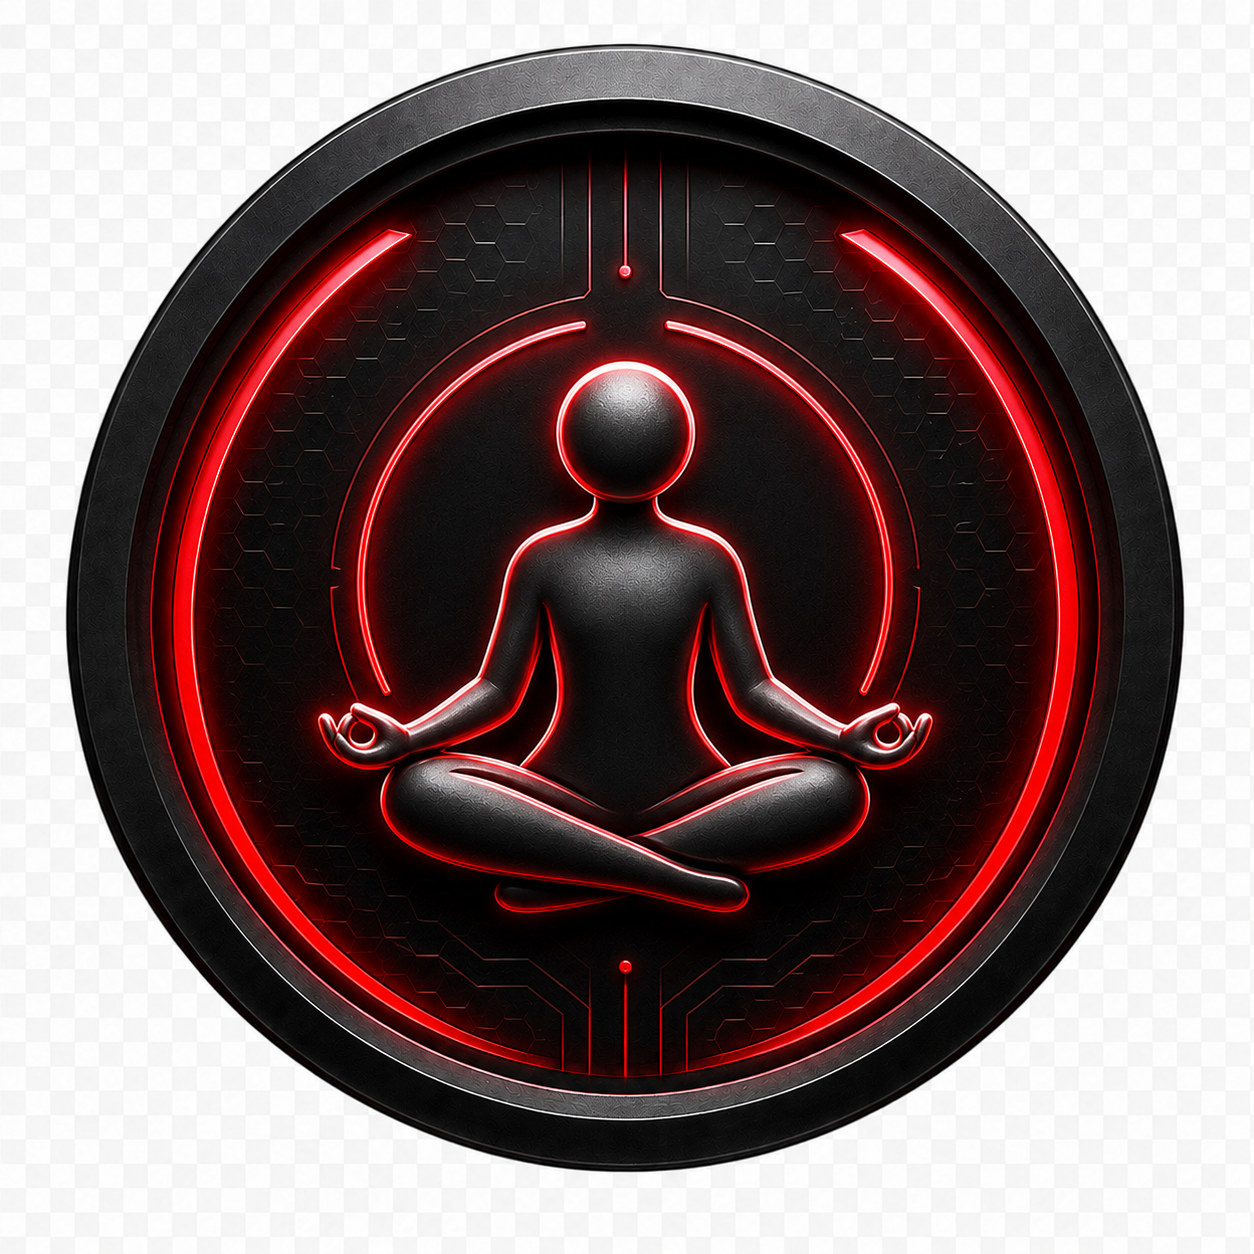
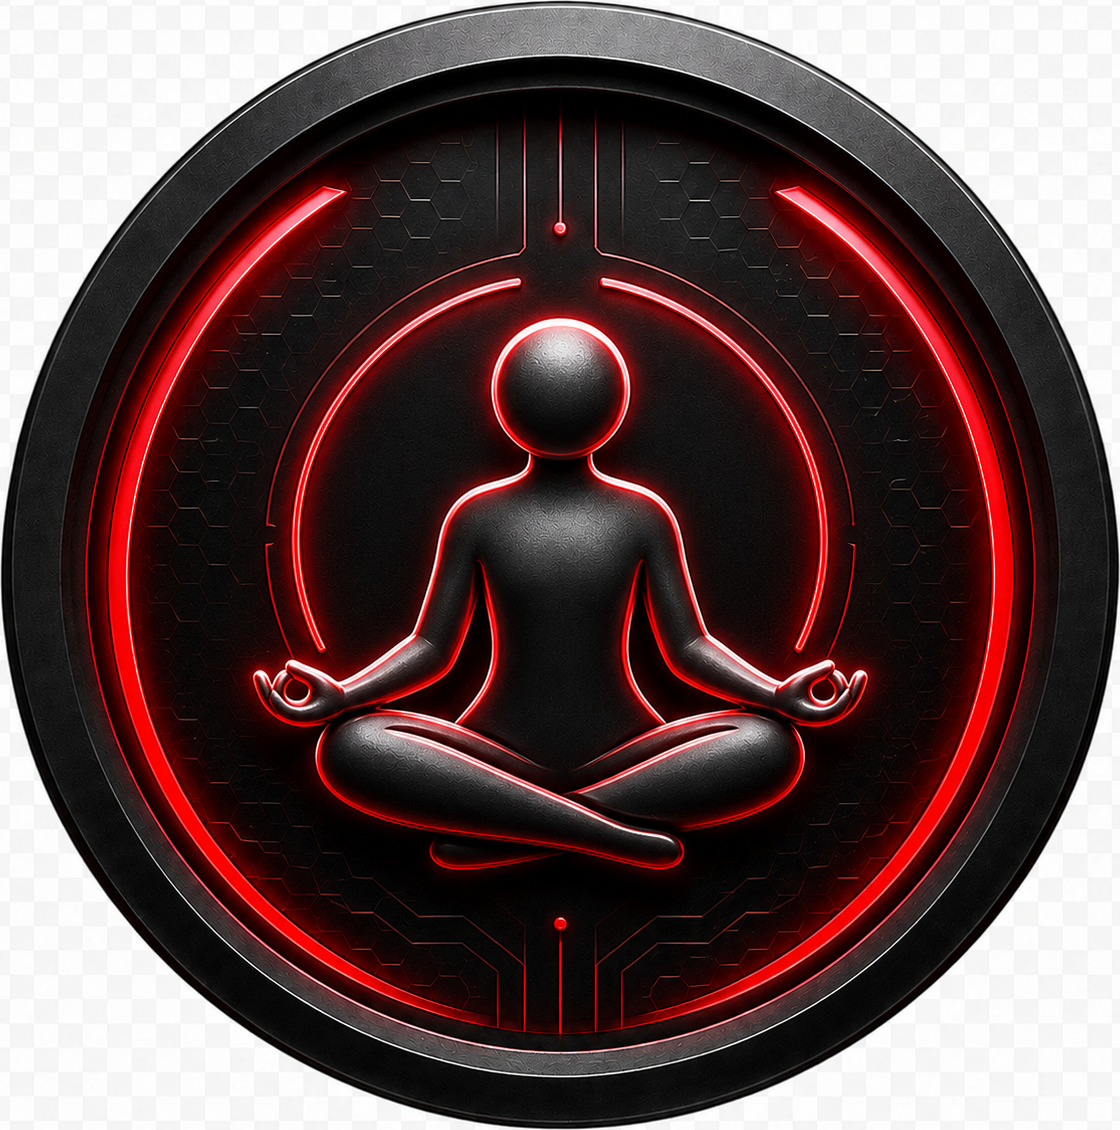
Add Badges To Chatbot Quick Help Cards

diff --git a/src/screens/member/chatbot/ChatbotScreen.js b/src/screens/member/chatbot/ChatbotScreen.js
@@ -164,7 +164,10 @@ export default function ChatbotScreen() {
                   handleSend("Can you help me with a workout plan?")
                 }
               >
-                <Text style={styles.promptEmoji}>💪</Text>
+                <Image
+                  source={require("../../../../assets/Chatbot_Images/chatbot_workout_card_image_1.png")}
+                  style={styles.promptIcon}
+                />
                 <Text style={styles.promptTitle}>Workout Help</Text>
                 <Text style={styles.promptSubtitle}>Training ideas</Text>
               </TouchableOpacity>
@@ -175,7 +178,10 @@ export default function ChatbotScreen() {
                   handleSend("Give me healthy meal ideas after a workout.")
                 }
               >
-                <Text style={styles.promptEmoji}>🥗</Text>
+                <Image
+                  source={require("../../../../assets/Chatbot_Images/chatbot_meal_card_image_1.png")}
+                  style={styles.promptIcon}
+                />
                 <Text style={styles.promptTitle}>Meal Ideas</Text>
                 <Text style={styles.promptSubtitle}>Healthy eating</Text>
               </TouchableOpacity>
@@ -186,7 +192,10 @@ export default function ChatbotScreen() {
                   handleSend("How can I recover better after training?")
                 }
               >
-                <Text style={styles.promptEmoji}>🧘</Text>
+                <Image
+                  source={require("../../../../assets/Chatbot_Images/chatbot_recovery_card_image_1.png")}
+                  style={styles.promptIcon}
+                />
                 <Text style={styles.promptTitle}>Recovery Tips</Text>
                 <Text style={styles.promptSubtitle}>Rest & mobility</Text>
               </TouchableOpacity>
@@ -197,7 +206,10 @@ export default function ChatbotScreen() {
                   handleSend("Can you explain basic supplements for fitness?")
                 }
               >
-                <Text style={styles.promptEmoji}>🧃</Text>
+                <Image
+                  source={require("../../../../assets/Chatbot_Images/chatbot_supplements_card_image_1.png")}
+                  style={styles.promptIcon}
+                />
                 <Text style={styles.promptTitle}>Supplements</Text>
                 <Text style={styles.promptSubtitle}>Basic guidance</Text>
               </TouchableOpacity>
@@ -268,12 +280,13 @@ export default function ChatbotScreen() {
 const styles = StyleSheet.create({
   safeArea: {
     flex: 1,
+    // backgroundColor: BG_DARK,
     backgroundColor: BG_DARK,
   },
 
   container: {
     flex: 1,
-    backgroundColor: BG_DARK,
+    // backgroundColor: BG_DARK,
   },
 
   topRow: {
@@ -452,6 +465,14 @@ const styles = StyleSheet.create({
 
   promptEmoji: {
     fontSize: 24,
+    marginBottom: 8,
+  },
+
+  promptIcon: {
+    width: 42,
+    height: 42,
+    borderRadius: 21,
+    resizeMode: "cover",
     marginBottom: 8,
   },
 

diff --git a/src/screens/member/MemberHomeScreen.js b/src/screens/member/MemberHomeScreen.js
@@ -367,6 +367,7 @@ const CARD_DARK = "#171717";
 const styles = StyleSheet.create({
   safeArea: {
     flex: 1,
+    // backgroundColor: BG_DARK,
     backgroundColor: BG_DARK,
   },
   container: {